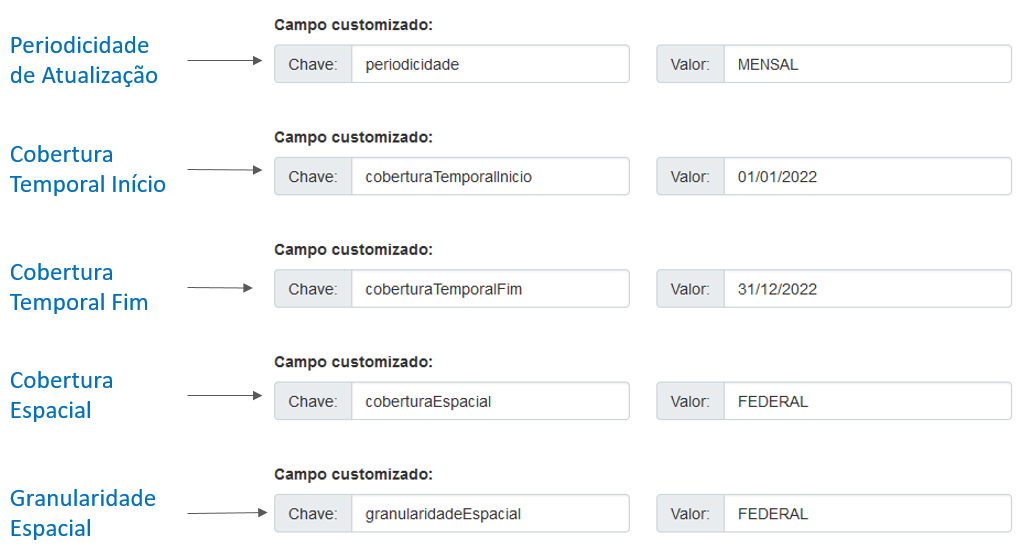
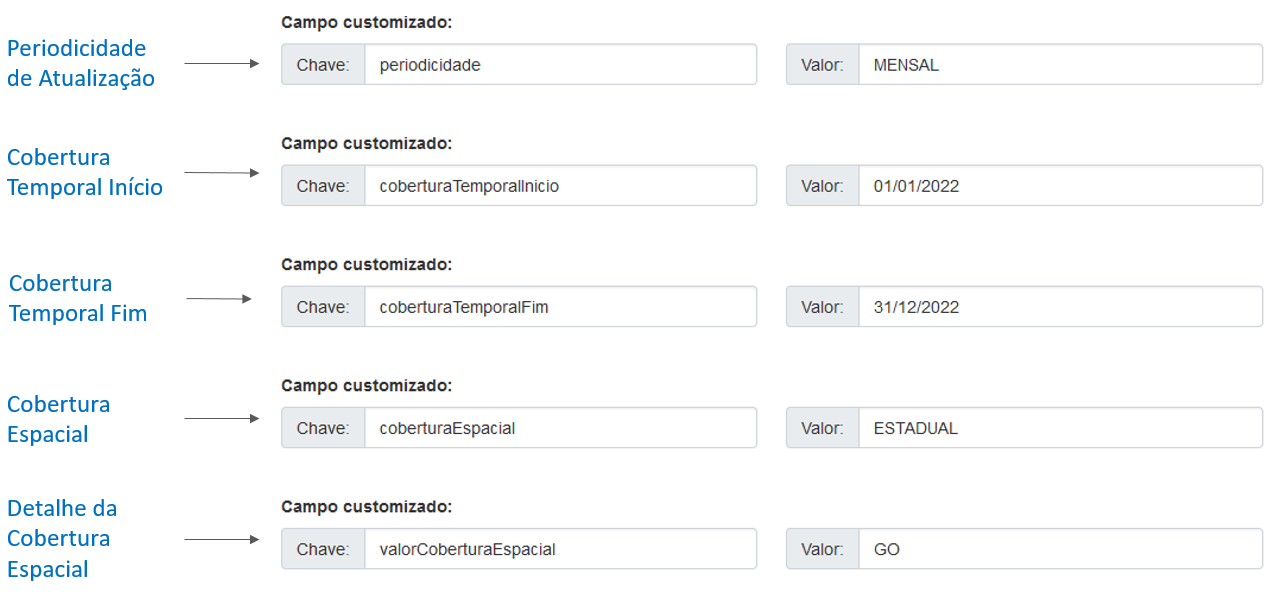
AB#17523 Atualização na documentação dos campos adicionais do CKAN

diff --git a/PREENCHIMENTO-CKAN.md b/PREENCHIMENTO-CKAN.md
@@ -87,7 +87,15 @@ Os campos devem ser preenchidos com chave e valor exatamente como explicados a s
     * ESTADUAL
     * MUNICIPAL
 
-5. Granularidade Espacial
+5. Detalhamento da Cobertura Espacial
+
+* Chave: valorCoberturaEspacial
+* Valores possíveis: caso a Cobertura Espacial seja Federal, não é necessário
+preencher. Caso seja Estadual, preencher com a UF do estado a que se refere (Ex: GO).
+Caso seja Municipal, preencher com o código do município de 6 dígitos definido pelo IBGE (Ver https://www.ibge.gov.br/explica/codigos-dos-municipios.php).
+Notar que se o código tiver 7 dígitos o último é apenas um dígito de verificação e não precisa ser preenchido aqui.
+
+6. Granularidade Espacial
 
 * Chave: granularidadeEspacial
 * Valores possíveis:
@@ -95,19 +103,12 @@ Os campos devem ser preenchidos com chave e valor exatamente como explicados a s
     * ESTADUAL
     * MUNICIPAL
 
-6. Atualização de Versão
+7. Atualização de Versão
 
 * Chave: atualizacaoVersao
 * Valores possíveis:
     * true
     * false
-
-7. Homologado
-
-* Chave: statusHomologacao
-* Valores possíveis:
-    * HOMOLOGADO
-    * NAO\_HOMOLOGADO
 
 8. Descontinuado
 
@@ -124,7 +125,7 @@ Os campos devem ser preenchidos com chave e valor exatamente como explicados a s
 10. Observância Legal
 
 * Chave: observanciaLegal
-* Valores possíveis: número inteiro de acordo com a relação abaixo
+* Valores possíveis: lista de números inteiros separados por vírgula de acordo com a relação abaixo (Ex: 3,26)
     * 1 -> Público
     * 2 -> Restrito - Direito Autoral (Lei nº 9.610/1998)
     * 3 -> Restrito - Informação Pessoal (Art. 31 da Lei nº 12.527/2011)
